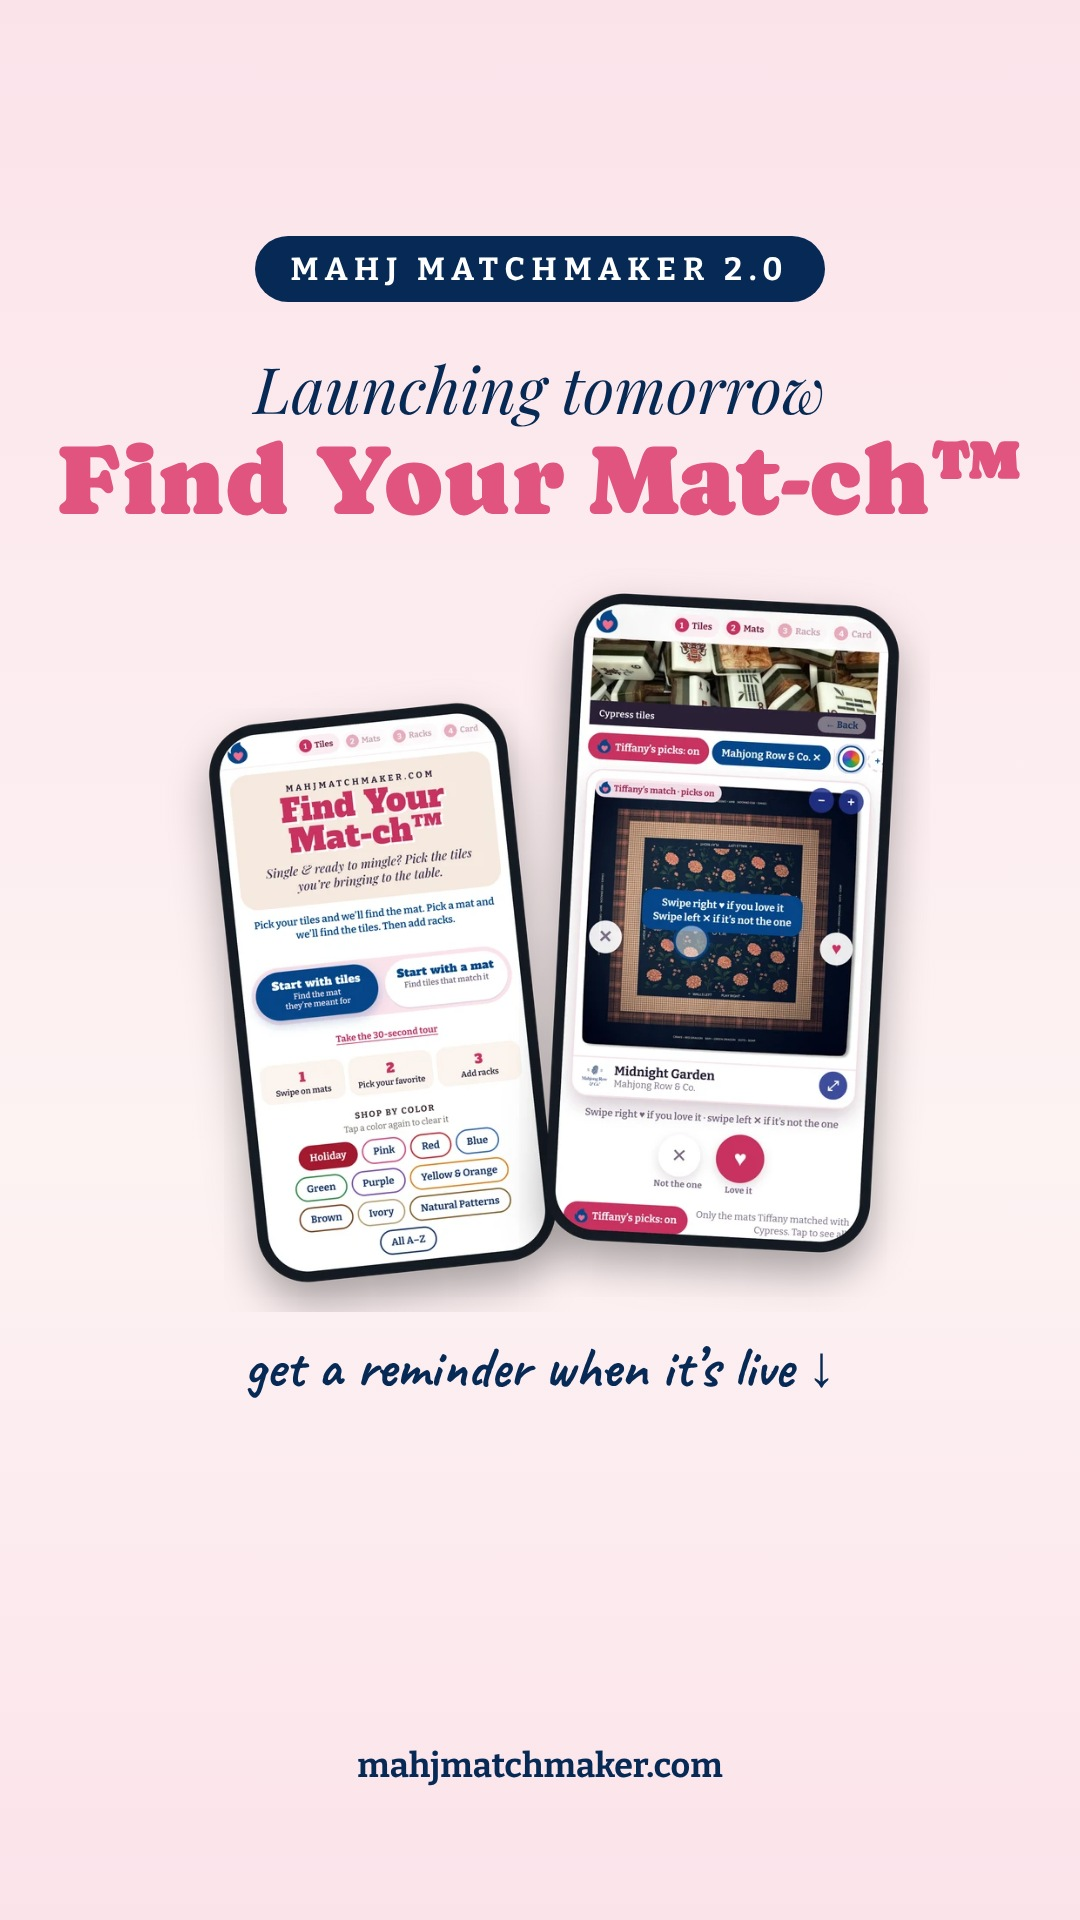
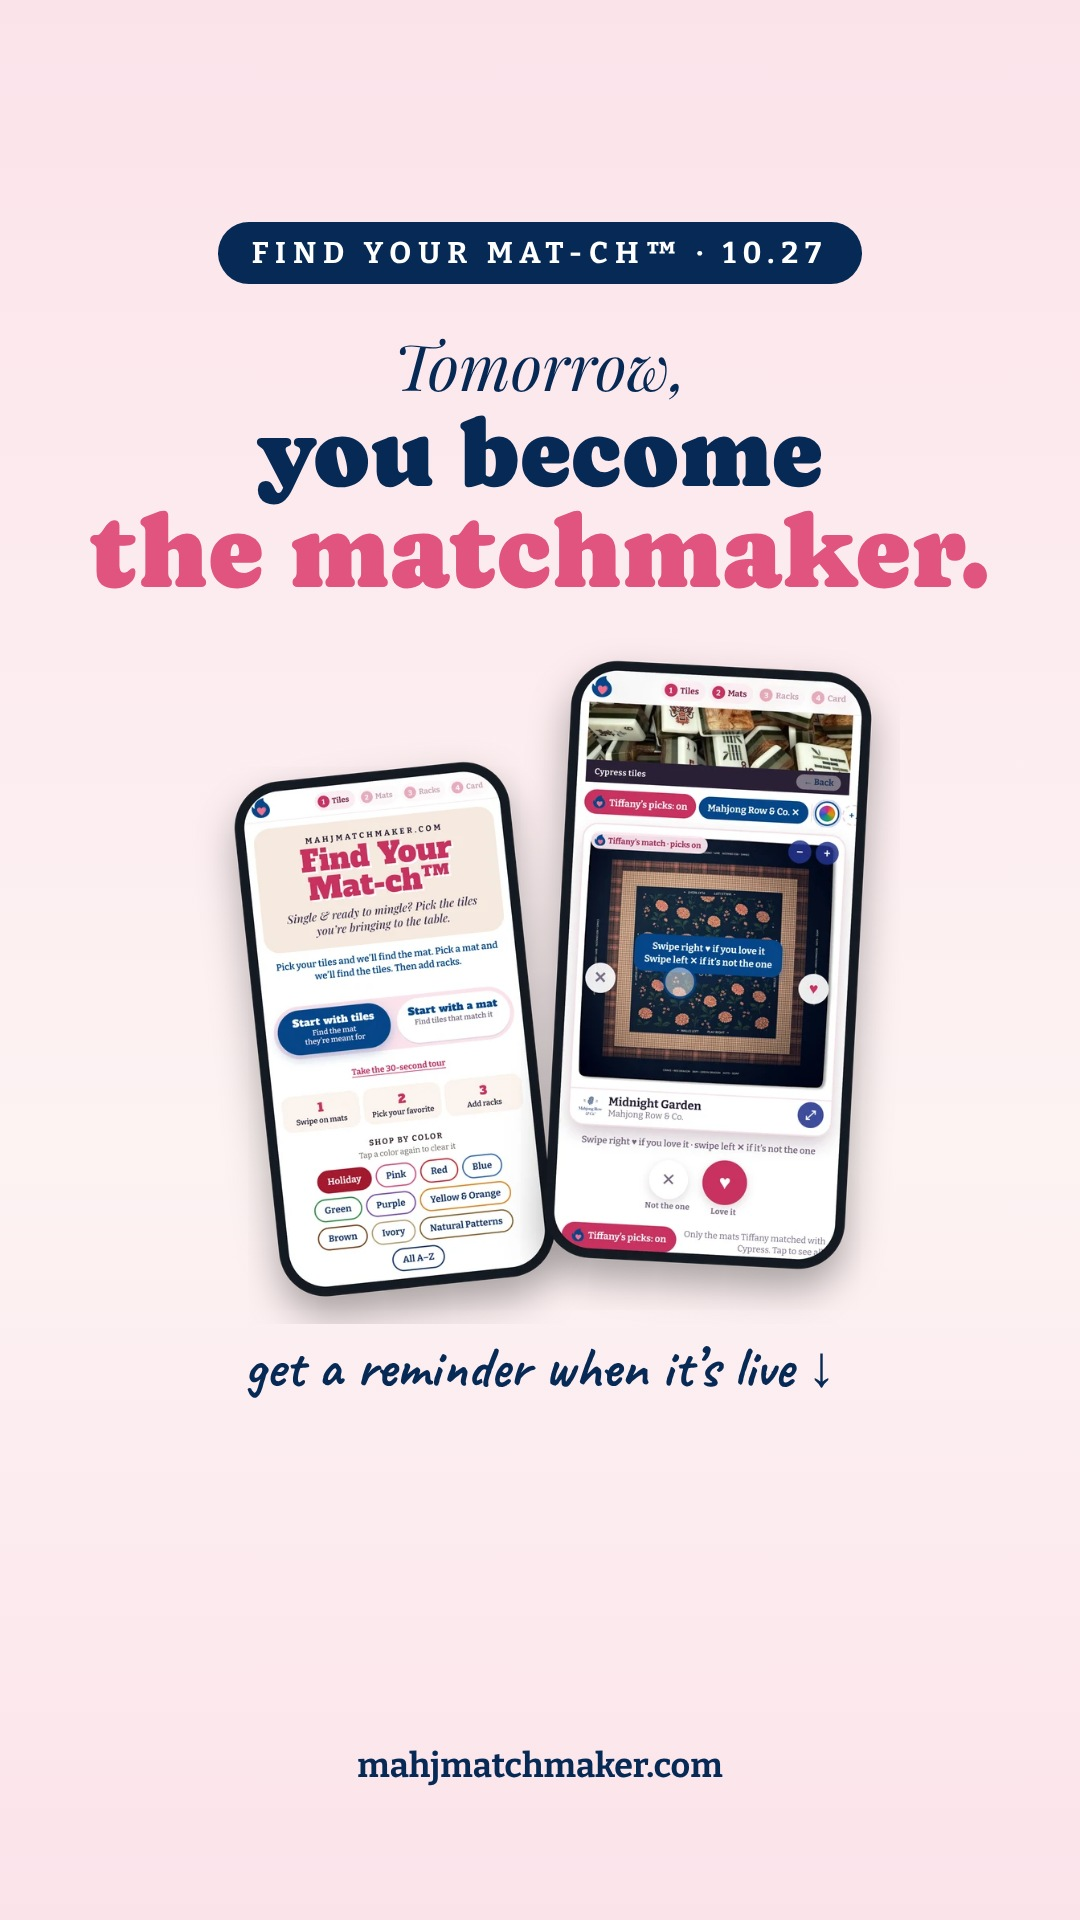
Countdown story: 'Tomorrow, you become the matchmaker' + sticker zone
Claude-Session: https://claude.ai/code/session_01QxwYQtmWcAr4s5uYJYP3mA

Changed region(s): [[0.0611, 0.0938, 0.9472, 0.6875]]

diff --git a/assets/social/countdown/cd.py b/assets/social/countdown/cd.py
@@ -6,10 +6,10 @@ H=f'''<html><head><meta charset=utf-8><style>@font-face{{font-family:Cap;src:url
 *{{margin:0;box-sizing:border-box}}body{{width:1080px;height:1920px;background:linear-gradient(#fbe3ea,#fdf3f3 60%,#fbe3ea);position:relative;overflow:hidden;font-family:Bit}}
 .c{{position:absolute;left:0;right:0;text-align:center}}
 </style></head><body>
-<div class="c" style="top:250px"><span style="background:#062a55;color:#fff;font:700 32px Bit;letter-spacing:7px;padding:14px 36px;border-radius:50px">MAHJ MATCHMAKER 2.0</span></div>
-<div class="c" style="top:345px;font:italic 64px PF;color:#062a55">Launching tomorrow</div>
-<div class="c" style="top:430px;font:400 100px/1 Cap;color:#e0547f;white-space:nowrap">Find Your Mat-ch&trade;</div>
-<img src="{PH}" style="position:absolute;left:150px;top:560px;width:780px">
+<div class="c" style="top:235px"><span style="background:#062a55;color:#fff;font:700 30px Bit;letter-spacing:7px;padding:13px 34px;border-radius:50px">FIND YOUR MAT-CH&trade; · 10.27</span></div>
+<div class="c" style="top:322px;font:italic 64px PF;color:#062a55">Tomorrow,</div>
+<div class="c" style="top:405px;font:400 96px/1 Cap;color:#062a55;white-space:nowrap">you become</div><div class="c" style="top:500px;font:400 104px/1 Cap;color:#e0547f;white-space:nowrap">the matchmaker.</div>
+<img src="{PH}" style="position:absolute;left:150px;top:630px;width:720px;left:180px">
 <div class="c" style="top:1330px;font:400 58px Cav;color:#062a55">get a reminder when it&rsquo;s live &darr;</div>
 <div class="c" style="top:1745px;font:700 34px Bit;color:#062a55">mahjmatchmaker.com</div>
 </body></html>'''

diff --git a/docs/ANSWERS.md b/docs/ANSWERS.md
@@ -309,3 +309,4 @@ Format: `- YYYY-MM-DD HH:MM · chat · topic · her answer in her words (short) 
 - 2026-10-26 12:47pm · Main · Tiffany corrected Claude: she has Meta One Essential (doc 89): 'Post only to profile' (grid without feeds) and grid REORDERING; she believes she can also EDIT a posted picture. Claude had forgotten this. → Both FYM reel drafts set back to show in grid; plan: reels go in the grid and she drags them right under the Find Your Mat-ch cards; the 'coming' cards get edited/replaced to 'live' tomorrow.
 - 2026-10-26 12:47pm · Main · Tiffany: the 'Hi, I'm Tiffany' pinned post STAYS pinned (don't take it off).
 - 2026-10-26 ~1:10pm · Main · /links LIVE (verified curl + phone render): Find Your Mat-ch first (auto-switches to 'Start matching' 9am CT Oct 27), Papaya Spritz second, ShopMy text line → 'Shop My Finds' picture card. Block @d8137f56; rollback page saved site/livepatch/links-oct26/rollback-live-page.html. NEW: docs/NEW-ALBUM-CHECKLIST.md (order of ops for every album launch), linked from CLAUDE.md.
+- Oct 26 ~1pm (Main): Tiffany: old countdown-1 'looks stupid', wants the updated one. Rebuilt countdown story with her lead-in 'Tomorrow, you become the matchmaker.' + sticker zone (assets/social/countdown/countdown-tomorrow-sticker.jpg); sent in chat for her to post with the countdown sticker.
